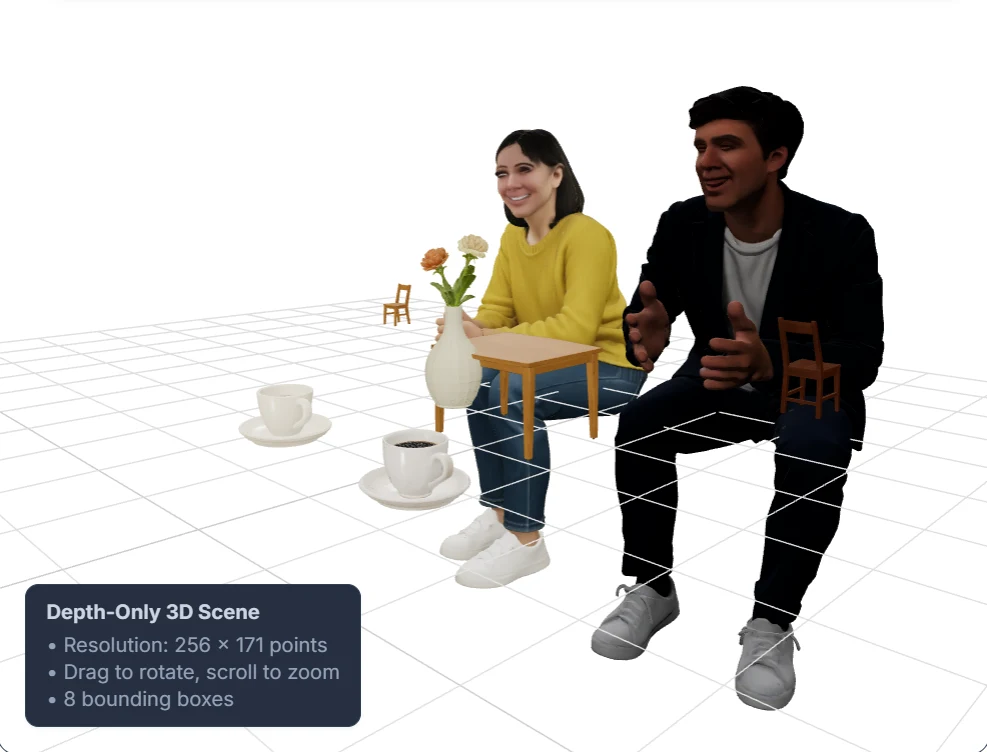
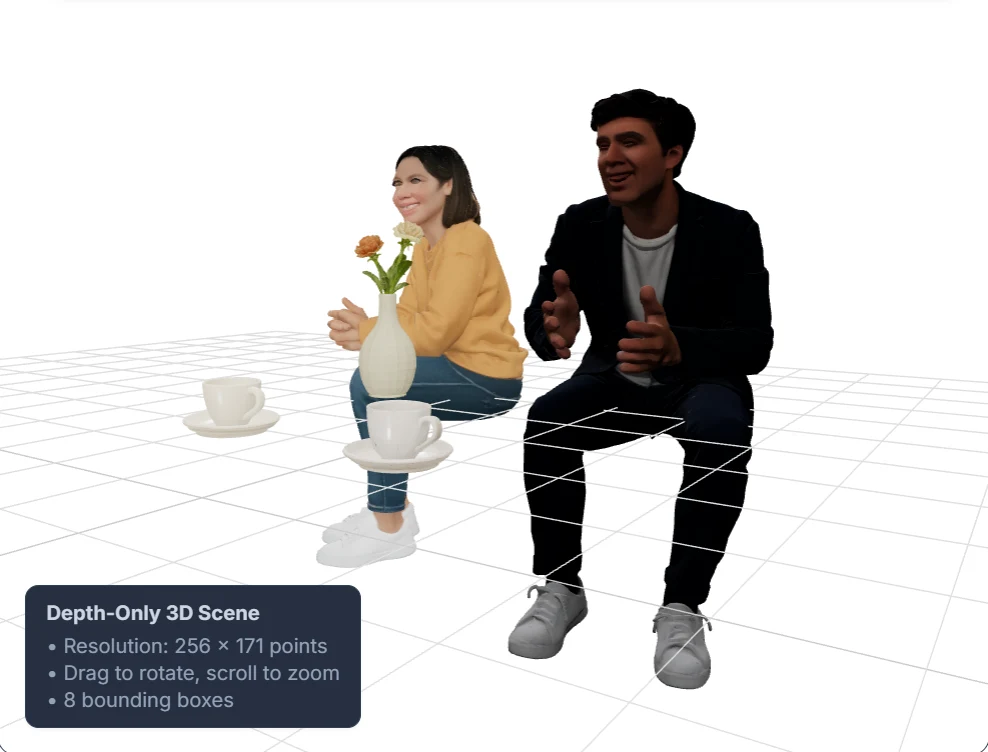
README: use the 3D scene screenshot with people, vase and cups
Table and chairs are left out of the example: only small edges of them
are visible in the photo, so their position in the completed image cannot
be matched and the models end up too small.

Claude-Session: https://claude.ai/code/session_017F2L64VSaLMVjz2Lii7x6Z

diff --git a/README.md b/README.md
@@ -15,7 +15,7 @@ This is the reference implementation of the paper listed in [Citation](#citation
   </tr>
   <tr>
     <td align="center">Input: a single photo</td>
-    <td align="center">Reconstructed 3D scene (3D models, PC Boxes and model boxes)</td>
+    <td align="center">Reconstructed 3D scene</td>
   </tr>
 </table>
 
@@ -46,7 +46,7 @@ The sample photo [`samples/two-people-at-table.webp`](samples/two-people-at-tabl
   </tr>
   <tr>
     <td width="50%"><img src="docs/images/step5-depth-map.webp" alt="Depth map"><br><sub><b>5. Depth estimation</b> — Depth Anything V2 (brighter = nearer)</sub></td>
-    <td width="50%"><img src="docs/images/scene-result.webp" alt="3D scene"><br><sub><b>7. Scene composition</b> — models placed at the depth of their PC Boxes</sub></td>
+    <td width="50%"><img src="docs/images/scene-result.webp" alt="3D scene"><br><sub><b>7. Scene composition</b> — models placed at the depth of their PC Boxes (people, vase and cups)</sub></td>
   </tr>
 </table>
 

diff --git a/README-jp.md b/README-jp.md
@@ -15,7 +15,7 @@
   </tr>
   <tr>
     <td align="center">入力：1枚の写真</td>
-    <td align="center">復元した3Dシーン（3Dモデル、PC Box、モデルの枠）</td>
+    <td align="center">復元した3Dシーン</td>
   </tr>
 </table>
 
@@ -46,7 +46,7 @@
   </tr>
   <tr>
     <td width="50%"><img src="docs/images/step5-depth-map.webp" alt="深度マップ"><br><sub><b>5. 深度推定</b>：Depth Anything V2（明るいほど手前）</sub></td>
-    <td width="50%"><img src="docs/images/scene-result.webp" alt="3Dシーン"><br><sub><b>7. シーン合成</b>：各モデルを PC Box の奥行きに配置</sub></td>
+    <td width="50%"><img src="docs/images/scene-result.webp" alt="3Dシーン"><br><sub><b>7. シーン合成</b>：各モデルを PC Box の奥行きに配置（人物、花瓶、カップ）</sub></td>
   </tr>
 </table>
 
